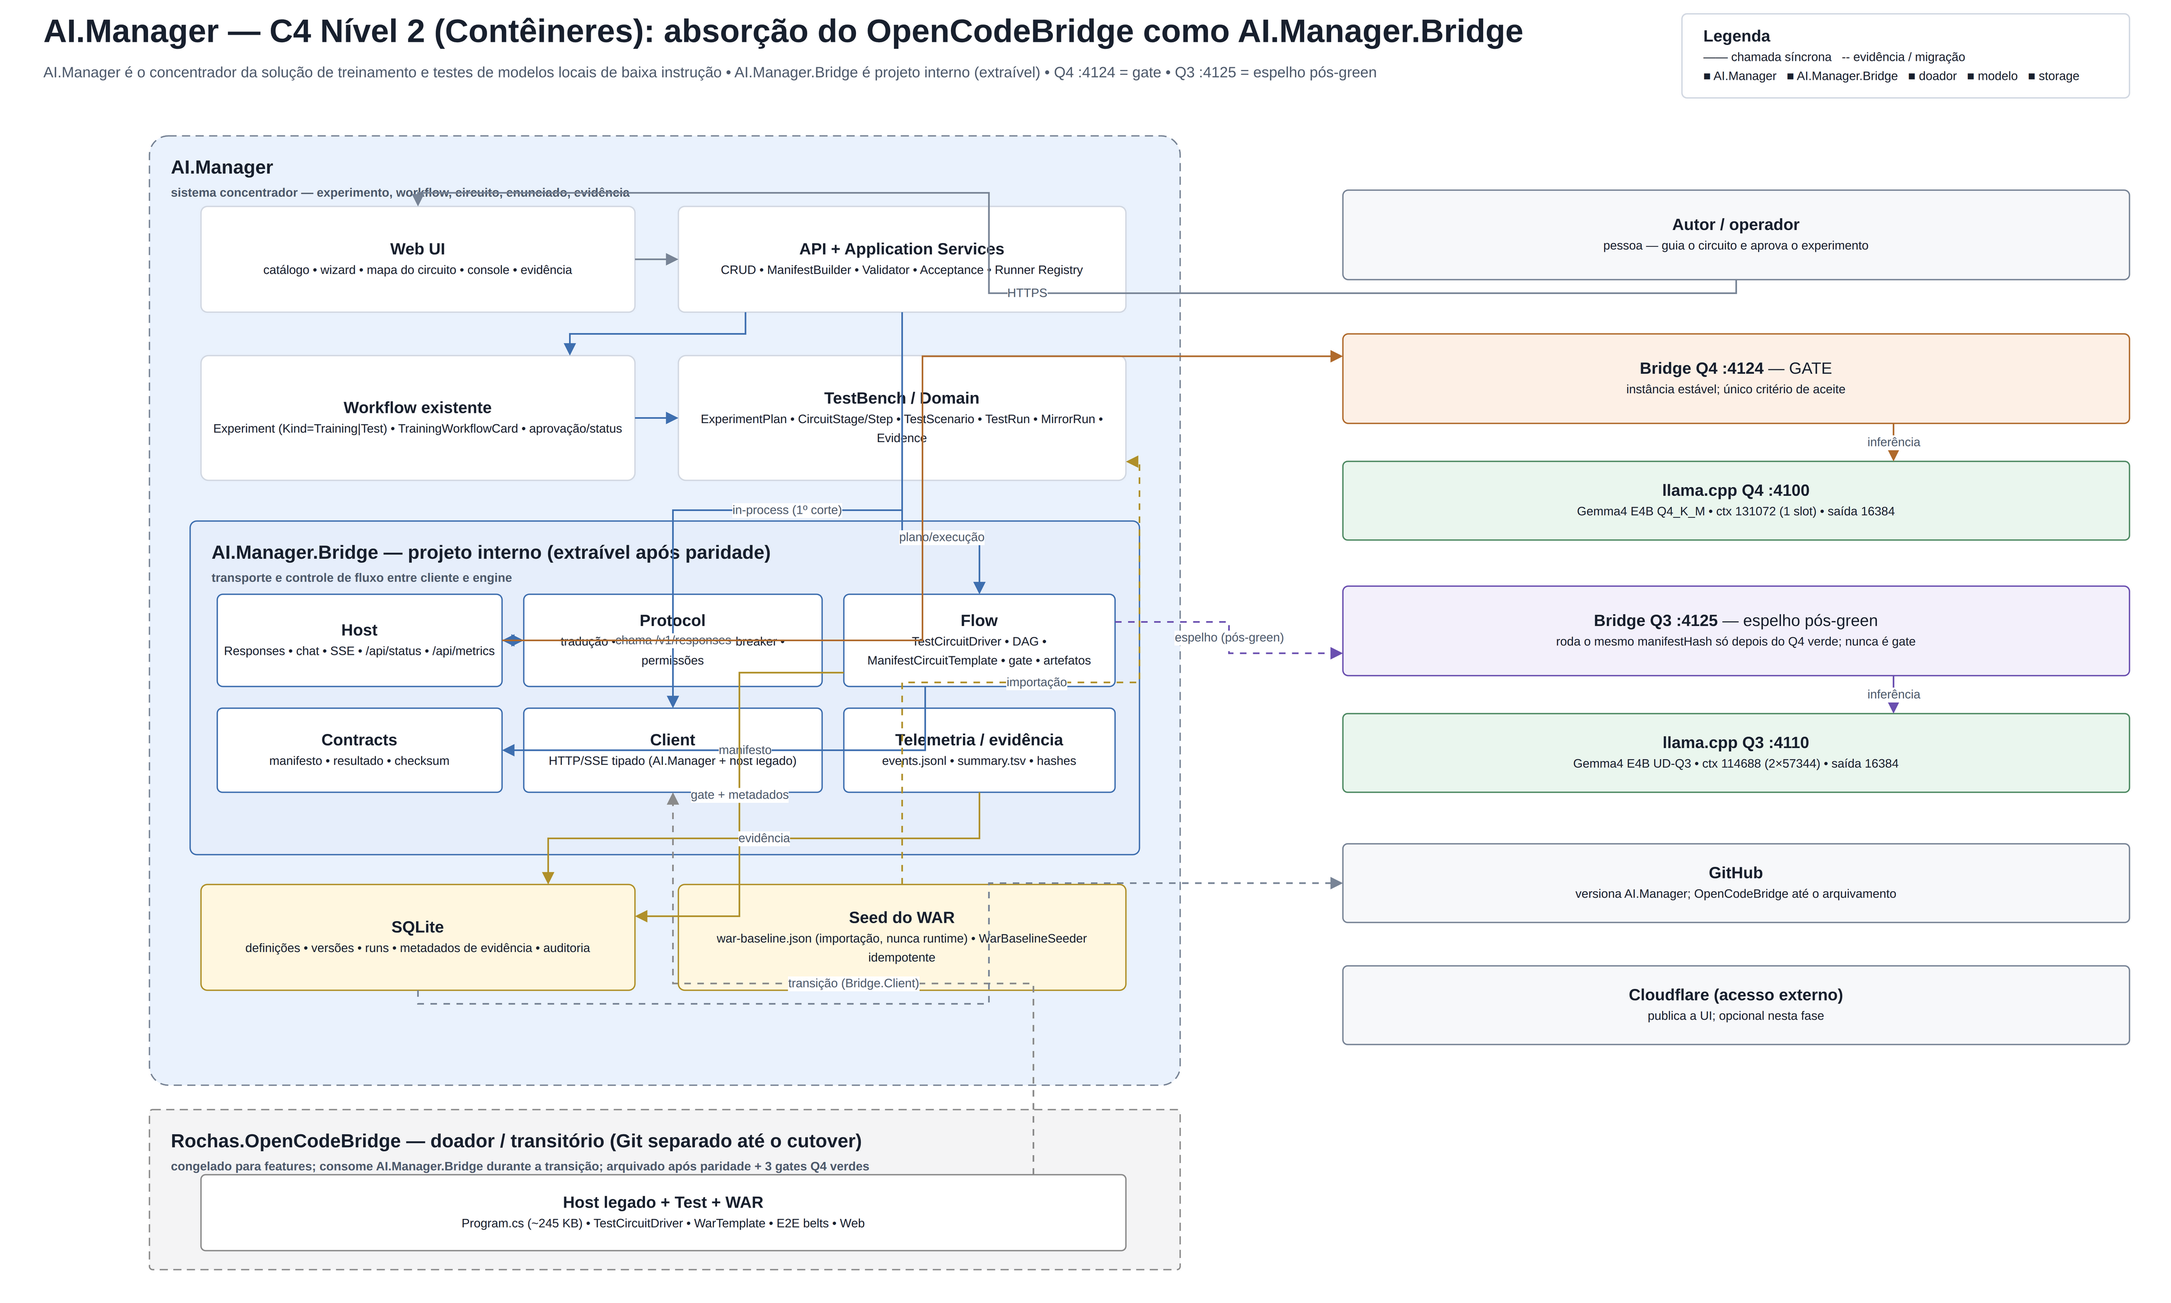
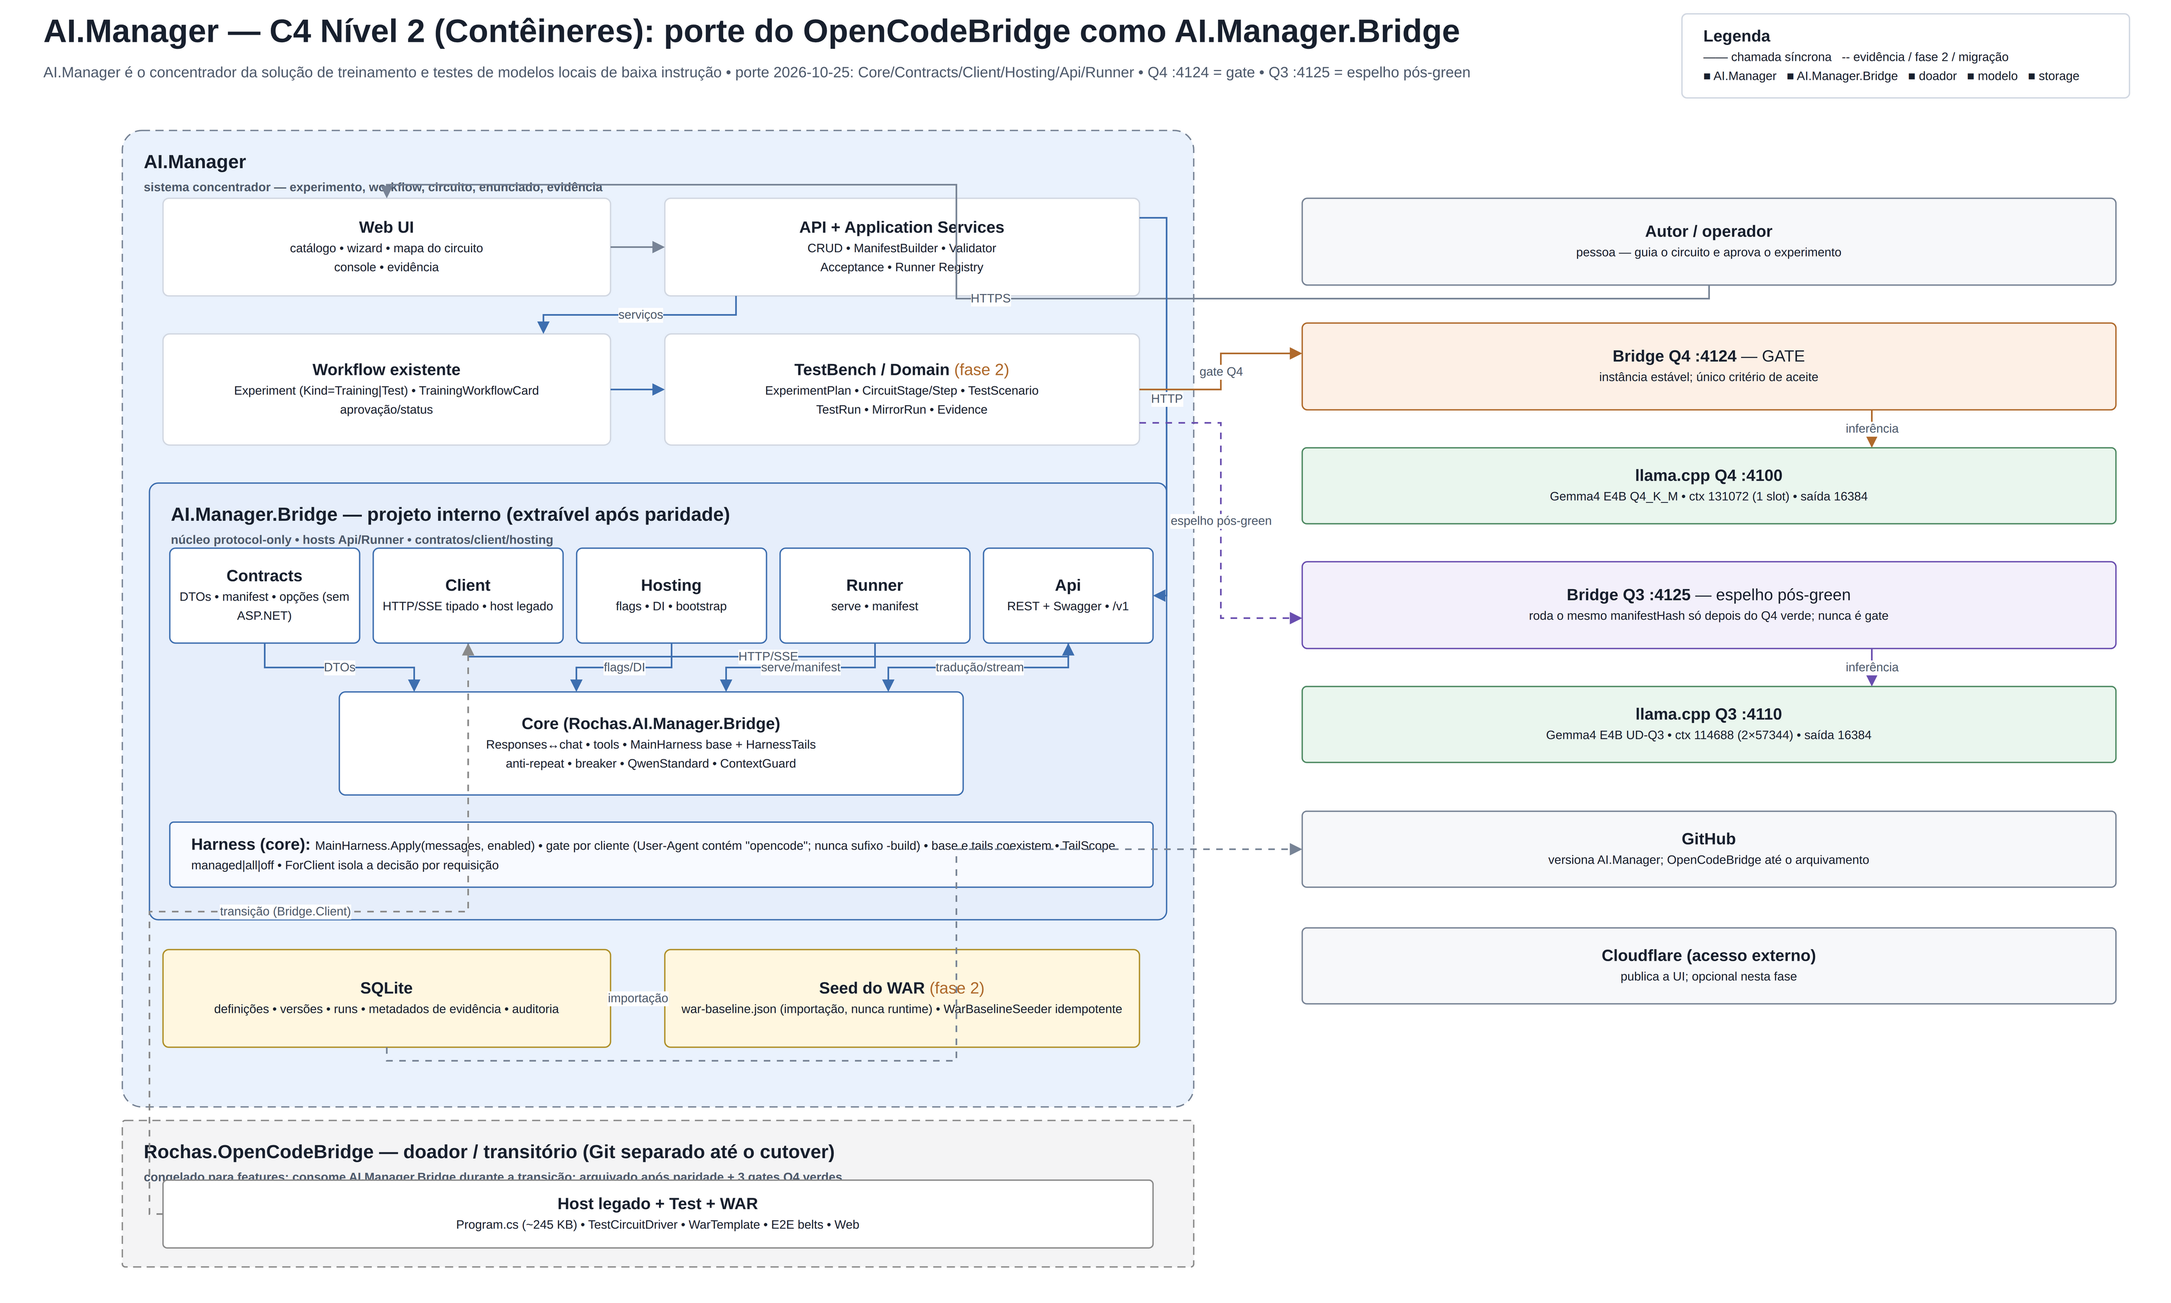
docs(c4): C4 e arquitetura v2.1 refletem o porte do AI.Manager.Bridge
- C4: seis projetos do Bridge (Core/Contracts/Client/Hosting/Api/Runner), harness base+tails, TailScope e discriminador por cliente; TestBench/Seed/WAR marcados como fase 2; Q4 gate e Q3 espelho\n- v2.1: estrutura, regra de dependencia do Bridge, secao 9.5, secao 10 reescrita (legado, Bridge, cutover, invariantes), testes, ADR-13/14, riscos, roadmap 3.5, criterios, mapa, glossario e changelog\n- PNG 4002x2402 regenerado do .drawio editavel; Bridge.Tests 102 PASS; AI.Manager.Tests 97 PASS + 1 SKIP

diff --git a/docs/ai-manager/diagrams/gen-c4.py b/docs/ai-manager/diagrams/gen-c4.py
@@ -5,7 +5,8 @@ Arquitetura representada (v2, absorcao):
   - AI.Manager e o sistema concentrador (Web/API, workflow existente,
     TestBench, SQLite/evidencia);
   - AI.Manager.Bridge e um projeto DENTRO do AI.Manager
-    (Host, Protocol, Flow/TestCircuitDriver, Contracts/Client);
+    (Core/Contracts/Client/Hosting/Api/Runner);
+  - TestBench/Flow, Seed do WAR e a integracao in-process sao fase 2;
   - Rochas.OpenCodeBridge aparece como DOADOR/TRANSITORIO, fora do sistema;
   - Q4 :4124 e o gate; Q3 :4125 e espelho pos-green; llama.cpp fica externo.
 
@@ -110,16 +111,16 @@ def edge(src: str, dst: str, label: str = "", stroke: str = "#788496",
 
 def build() -> str:
     # ---- cabecalho ----------------------------------------------------------
-    cell("title", "AI.Manager — C4 Nível 2 (Contêineres): absorção do OpenCodeBridge como AI.Manager.Bridge",
+    cell("title", "AI.Manager — C4 Nível 2 (Contêineres): porte do OpenCodeBridge como AI.Manager.Bridge",
          30, 6, 1180, 34, style=TITLE, fill="none", stroke="none")
     cell("subtitle",
          "AI.Manager é o concentrador da solução de treinamento e testes de modelos locais de baixa instrução  •  "
-         "AI.Manager.Bridge é projeto interno (extraível)  •  Q4 :4124 = gate  •  Q3 :4125 = espelho pós-green",
-         30, 42, 1180, 22, style=SUB, fill="none", stroke="none")
+         "porte 2026-10-25: Core/Contracts/Client/Hosting/Api/Runner  •  Q4 :4124 = gate  •  Q3 :4125 = espelho pós-green",
+         30, 42, 1200, 22, style=SUB, fill="none", stroke="none")
 
     cell("legend",
          "<b>Legenda</b><br><font style='font-size:9px'>"
-         "—— chamada síncrona&nbsp;&nbsp;&nbsp;-- evidência / migração<br>"
+         "—— chamada síncrona&nbsp;&nbsp;&nbsp;-- evidência / fase 2 / migração<br>"
          "■ AI.Manager&nbsp;&nbsp; ■ AI.Manager.Bridge&nbsp;&nbsp; ■ doador&nbsp;&nbsp; "
          "■ modelo&nbsp;&nbsp; ■ storage</font>",
          1240, 10, 330, 62, style=BOX_LEFT, fill="#FFFFFF", stroke="#D2D8E2")
@@ -128,82 +129,88 @@ def build() -> str:
     cell("boundary_ai",
          "<b>AI.Manager</b><br><font style='font-size:9px;color:#4E5A6C'>"
          "sistema concentrador — experimento, workflow, circuito, enunciado, evidência</font>",
-         110, 100, 760, 700, fill=C_AI, stroke=S_AI, dashed="1", boundary=True)
+         90, 96, 790, 720, fill=C_AI, stroke=S_AI, dashed="1", boundary=True)
 
-    cell("web", "<b>Web UI</b><br><font style='font-size:9px'>catálogo • wizard • mapa do circuito • console • evidência</font>",
-         148, 152, 320, 78, fill="#FFFFFF")
-    cell("api", "<b>API + Application Services</b><br><font style='font-size:9px'>CRUD • ManifestBuilder • Validator • Acceptance • Runner Registry</font>",
-         500, 152, 330, 78, fill="#FFFFFF")
-    cell("workflow", "<b>Workflow existente</b><br><font style='font-size:9px'>Experiment (Kind=Training|Test) • TrainingWorkflowCard • aprovação/status</font>",
-         148, 262, 320, 92, fill="#FFFFFF")
-    cell("testbench", "<b>TestBench / Domain</b><br><font style='font-size:9px'>ExperimentPlan • CircuitStage/Step • TestScenario • TestRun • MirrorRun • Evidence</font>",
-         500, 262, 330, 92, fill="#FFFFFF")
+    cell("web", "<b>Web UI</b><br><font style='font-size:9px'>catálogo • wizard • mapa do circuito<br>console • evidência</font>",
+         120, 146, 330, 72, fill="#FFFFFF")
+    cell("api", "<b>API + Application Services</b><br><font style='font-size:9px'>CRUD • ManifestBuilder • Validator<br>Acceptance • Runner Registry</font>",
+         490, 146, 350, 72, fill="#FFFFFF")
+    cell("workflow", "<b>Workflow existente</b><br><font style='font-size:9px'>Experiment (Kind=Training|Test) • TrainingWorkflowCard<br>aprovação/status</font>",
+         120, 246, 330, 82, fill="#FFFFFF")
+    cell("testbench", "<b>TestBench / Domain</b> <font color='#B06A2C'>(fase 2)</font><br><font style='font-size:9px'>ExperimentPlan • CircuitStage/Step • TestScenario<br>TestRun • MirrorRun • Evidence</font>",
+         490, 246, 350, 82, fill="#FFFFFF")
 
     # ---- AI.Manager.Bridge (projeto interno) --------------------------------
     cell("boundary_bridge",
          "<b>AI.Manager.Bridge</b> — projeto interno (extraível após paridade)<br>"
-         "<font style='font-size:9px;color:#4E5A6C'>transporte e controle de fluxo entre cliente e engine</font>",
-         140, 384, 700, 246, fill=C_BRIDGE, stroke=S_BRIDGE, dashed="0", boundary=True)
+         "<font style='font-size:9px;color:#4E5A6C'>núcleo protocol-only • hosts Api/Runner • contratos/client/hosting</font>",
+         110, 356, 750, 322, fill=C_BRIDGE, stroke=S_BRIDGE, dashed="0", boundary=True)
 
-    cell("br_host", "<b>Host</b><br><font style='font-size:9px'>Responses • chat • SSE • /api/status • /api/metrics</font>",
-         160, 438, 210, 68, fill="#FFFFFF", stroke=S_BRIDGE)
-    cell("br_protocol", "<b>Protocol</b><br><font style='font-size:9px'>tradução • tools • harness/tails • breaker • permissões</font>",
-         386, 438, 220, 68, fill="#FFFFFF", stroke=S_BRIDGE)
-    cell("br_flow", "<b>Flow</b><br><font style='font-size:9px'>TestCircuitDriver • DAG • ManifestCircuitTemplate • gate • artefatos</font>",
-         622, 438, 200, 68, fill="#FFFFFF", stroke=S_BRIDGE)
-    cell("br_contracts", "<b>Contracts</b><br><font style='font-size:9px'>manifesto • resultado • checksum</font>",
-         160, 522, 210, 62, fill="#FFFFFF", stroke=S_BRIDGE)
-    cell("br_client", "<b>Client</b><br><font style='font-size:9px'>HTTP/SSE tipado (AI.Manager + host legado)</font>",
-         386, 522, 220, 62, fill="#FFFFFF", stroke=S_BRIDGE)
-    cell("br_telemetry", "<b>Telemetria / evidência</b><br><font style='font-size:9px'>events.jsonl • summary.tsv • hashes</font>",
-         622, 522, 200, 62, fill="#FFFFFF", stroke=S_BRIDGE)
+    cell("br_contracts", "<b>Contracts</b><br><font style='font-size:9px'>DTOs • manifest • opções (sem ASP.NET)</font>",
+         125, 404, 140, 70, fill="#FFFFFF", stroke=S_BRIDGE)
+    cell("br_client", "<b>Client</b><br><font style='font-size:9px'>HTTP/SSE tipado • host legado</font>",
+         275, 404, 140, 70, fill="#FFFFFF", stroke=S_BRIDGE)
+    cell("br_hosting", "<b>Hosting</b><br><font style='font-size:9px'>flags • DI • bootstrap</font>",
+         425, 404, 140, 70, fill="#FFFFFF", stroke=S_BRIDGE)
+    cell("br_runner", "<b>Runner</b><br><font style='font-size:9px'>serve • manifest</font>",
+         575, 404, 140, 70, fill="#FFFFFF", stroke=S_BRIDGE)
+    cell("br_api", "<b>Api</b><br><font style='font-size:9px'>REST + Swagger • /v1</font>",
+         725, 404, 125, 70, fill="#FFFFFF", stroke=S_BRIDGE)
+
+    cell("br_core", "<b>Core (Rochas.AI.Manager.Bridge)</b><br><font style='font-size:9px'>Responses↔chat • tools • MainHarness base + HarnessTails<br>anti-repeat • breaker • QwenStandard • ContextGuard</font>",
+         250, 510, 460, 76, fill="#FFFFFF", stroke=S_BRIDGE)
+
+    cell("br_note",
+         "<b>Harness (core):</b> <font style='font-size:9px'>"
+         "MainHarness.Apply(messages, enabled) • gate por cliente (User-Agent contém \"opencode\"; nunca sufixo -build) • "
+         "base e tails coexistem • TailScope managed|all|off • ForClient isola a decisão por requisição</font>",
+         125, 606, 725, 48, style=BOX_LEFT, fill="#F8FAFF", stroke=S_BRIDGE)
 
     cell("store", "<b>SQLite</b><br><font style='font-size:9px'>definições • versões • runs • metadados de evidência • auditoria</font>",
-         148, 652, 320, 78, fill=C_STORE, stroke=S_STORE)
-    cell("seed", "<b>Seed do WAR</b><br><font style='font-size:9px'>war-baseline.json (importação, nunca runtime) • WarBaselineSeeder idempotente</font>",
-         500, 652, 330, 78, fill=C_STORE, stroke=S_STORE)
+         120, 700, 330, 72, fill=C_STORE, stroke=S_STORE)
+    cell("seed", "<b>Seed do WAR</b> <font color='#B06A2C'>(fase 2)</font><br><font style='font-size:9px'>war-baseline.json (importação, nunca runtime) • WarBaselineSeeder idempotente</font>",
+         490, 700, 350, 72, fill=C_STORE, stroke=S_STORE)
 
     # ---- doador -------------------------------------------------------------
     cell("boundary_donor",
          "<b>Rochas.OpenCodeBridge</b> — doador / transitório (Git separado até o cutover)<br>"
          "<font style='font-size:9px;color:#4E5A6C'>congelado para features; consome AI.Manager.Bridge durante a transição; arquivado após paridade + 3 gates Q4 verdes</font>",
-         110, 818, 760, 118, fill=C_DONOR, stroke=S_DONOR, dashed="1", boundary=True)
+         90, 826, 790, 108, fill=C_DONOR, stroke=S_DONOR, dashed="1", boundary=True)
     cell("donor", "<b>Host legado + Test + WAR</b><br><font style='font-size:9px'>Program.cs (~245 KB) • TestCircuitDriver • WarTemplate • E2E belts • Web</font>",
-         148, 866, 682, 56, fill="#FFFFFF", stroke=S_DONOR)
+         120, 870, 730, 50, fill="#FFFFFF", stroke=S_DONOR)
 
     # ---- fora do AI.Manager -------------------------------------------------
     cell("user", "<b>Autor / operador</b><br><font style='font-size:9px'>pessoa — guia o circuito e aprova o experimento</font>",
-         990, 140, 580, 66, fill=C_EXT, stroke=S_EXT)
+         960, 146, 600, 64, fill=C_EXT, stroke=S_EXT)
     cell("bridge_q4", "<b>Bridge Q4 :4124</b> — GATE<br><font style='font-size:9px'>instância estável; único critério de aceite</font>",
-         990, 246, 580, 66, fill=C_GATE, stroke=S_GATE)
+         960, 238, 600, 64, fill=C_GATE, stroke=S_GATE)
     cell("llama_q4", "<b>llama.cpp Q4 :4100</b><br><font style='font-size:9px'>Gemma4 E4B Q4_K_M • ctx 131072 (1 slot) • saída 16384</font>",
-         990, 340, 580, 58, fill=C_MODEL, stroke=S_MODEL)
+         960, 330, 600, 56, fill=C_MODEL, stroke=S_MODEL)
     cell("bridge_q3", "<b>Bridge Q3 :4125</b> — espelho pós-green<br><font style='font-size:9px'>roda o mesmo manifestHash só depois do Q4 verde; nunca é gate</font>",
-         990, 432, 580, 66, fill=C_MIRROR, stroke=S_MIRROR)
+         960, 414, 600, 64, fill=C_MIRROR, stroke=S_MIRROR)
     cell("llama_q3", "<b>llama.cpp Q3 :4110</b><br><font style='font-size:9px'>Gemma4 E4B UD-Q3 • ctx 114688 (2×57344) • saída 16384</font>",
-         990, 526, 580, 58, fill=C_MODEL, stroke=S_MODEL)
+         960, 506, 600, 56, fill=C_MODEL, stroke=S_MODEL)
     cell("github", "<b>GitHub</b><br><font style='font-size:9px'>versiona AI.Manager; OpenCodeBridge até o arquivamento</font>",
-         990, 622, 580, 58, fill=C_EXT, stroke=S_EXT)
+         960, 598, 600, 56, fill=C_EXT, stroke=S_EXT)
     cell("cloudflare", "<b>Cloudflare (acesso externo)</b><br><font style='font-size:9px'>publica a UI; opcional nesta fase</font>",
-         990, 712, 580, 58, fill=C_EXT, stroke=S_EXT)
+         960, 684, 600, 56, fill=C_EXT, stroke=S_EXT)
 
     # ---- relacionamentos ----------------------------------------------------
     edge("user", "web", "HTTPS", exit=("0.5", "1"), entry=("0.5", "0"))
     edge("web", "api", "", exit=("1", "0.5"), entry=("0", "0.5"))
-    edge("api", "workflow", "", stroke=S_BRIDGE, exit=("0.15", "1"), entry=("0.85", "0"))
+    edge("api", "workflow", "serviços", stroke=S_BRIDGE, exit=("0.15", "1"), entry=("0.85", "0"))
     edge("workflow", "testbench", "", stroke=S_BRIDGE, exit=("1", "0.5"), entry=("0", "0.5"))
-    edge("api", "br_client", "in-process (1º corte)", stroke=S_BRIDGE, exit=("0.5", "1"), entry=("0.5", "0"))
-    edge("testbench", "br_flow", "plano/execução", stroke=S_BRIDGE, exit=("0.5", "1"), entry=("0.5", "0"))
-    edge("br_flow", "br_host", "chama /v1/responses", stroke=S_BRIDGE, exit=("0", "0.5"), entry=("1", "0.5"))
-    edge("br_host", "br_protocol", "", stroke=S_BRIDGE, exit=("1", "0.5"), entry=("0", "0.5"))
-    edge("br_flow", "br_contracts", "manifesto", stroke=S_BRIDGE, exit=("0.3", "1"), entry=("1", "0.5"))
-    edge("br_flow", "store", "gate + metadados", stroke=S_STORE, exit=("0", "0.85"), entry=("1", "0.3"))
-    edge("br_telemetry", "store", "evidência", stroke=S_STORE, exit=("0.5", "1"), entry=("0.8", "0"))
-    edge("seed", "testbench", "importação", stroke=S_STORE, dashed="1", exit=("0.5", "0"), entry=("1", "0.85"))
-    edge("donor", "br_client", "transição (Bridge.Client)", stroke=S_DONOR, dashed="1", exit=("0.9", "0"), entry=("0.5", "1"))
-    edge("br_host", "bridge_q4", "", stroke=S_GATE, exit=("1", "0.5"), entry=("0", "0.25"))
+    edge("api", "br_api", "HTTP", stroke=S_BRIDGE, exit=("1", "0.2"), entry=("1", "0.5"))
+    edge("br_client", "br_api", "HTTP/SSE", stroke=S_BRIDGE, exit=("0.5", "1"), entry=("0.5", "1"))
+    edge("br_contracts", "br_core", "DTOs", stroke=S_BRIDGE, exit=("0.5", "1"), entry=("0.12", "0"))
+    edge("br_hosting", "br_core", "flags/DI", stroke=S_BRIDGE, exit=("0.5", "1"), entry=("0.38", "0"))
+    edge("br_runner", "br_core", "serve/manifest", stroke=S_BRIDGE, exit=("0.5", "1"), entry=("0.62", "0"))
+    edge("br_api", "br_core", "tradução/stream", stroke=S_BRIDGE, exit=("0.5", "1"), entry=("0.88", "0"))
+    edge("seed", "store", "importação", stroke=S_STORE, dashed="1", exit=("0", "0.5"), entry=("1", "0.5"))
+    edge("donor", "br_client", "transição (Bridge.Client)", stroke=S_DONOR, dashed="1", exit=("0", "0.5"), entry=("0.5", "1"))
+    edge("testbench", "bridge_q4", "gate Q4", stroke=S_GATE, exit=("1", "0.5"), entry=("0", "0.35"))
+    edge("testbench", "bridge_q3", "espelho pós-green", stroke=S_MIRROR, dashed="1", exit=("1", "0.8"), entry=("0", "0.65"))
     edge("bridge_q4", "llama_q4", "inferência", stroke=S_GATE, exit=("0.7", "1"), entry=("0.7", "0"))
-    edge("br_flow", "bridge_q3", "espelho (pós-green)", stroke=S_MIRROR, dashed="1", exit=("1", "0.3"), entry=("0", "0.75"))
     edge("bridge_q3", "llama_q3", "inferência", stroke=S_MIRROR, exit=("0.7", "1"), entry=("0.7", "0"))
     edge("store", "github", "", stroke=S_EXT, dashed="1", exit=("0.5", "1"), entry=("0.1", "0.5"))
 

diff --git a/HISTORY.md b/HISTORY.md
@@ -1,3 +1,22 @@
+## docs(c4): C4 e arquitetura v2.1 refletem o porte do AI.Manager.Bridge
+
+- Date: 2026-10-25
+
+- C4 (Nível 2, contêineres) regenerado a partir de `gen-c4.py`: o boundary
+  `AI.Manager.Bridge` agora mostra os seis projetos reais (`Core`, `Contracts`,
+  `Client`, `Hosting`, `Api`, `Runner`), o pipeline protocol-only, `MainHarness`
+  base + `HarnessTails`, `TailScope` e o discriminador por cliente (User-Agent).
+  `TestBench` e `Seed do WAR` ficam marcados como fase 2; Q4 segue gate e Q3
+  espelho pós-green. Saídas: `.drawio` editável e PNG 4002x2402 (escala 2.5).
+- `Rochas.AI.Manager-Arquitetura v2.md` sobe para v2.1: sumário, estrutura de
+  projetos, regra de dependência do Bridge, seção 9.5 (harness base+tails),
+  seção 10 reescrita (legado transitório, Bridge, cutover e invariantes),
+  testes, ADR-13/ADR-14, riscos, roadmap (Fase 3.5), critérios, mapa, glossário
+  e change log. `ARQUITETURA-CAMADAS.md` ganhou a camada Bridge e hosts.
+- **Prova**: `python3 docs/ai-manager/diagrams/gen-c4.py` + `drawio -x -f png
+  --size page -s 2.5`; XML válido; build/testes verdes no commit `c72f726`
+  (`Bridge.Tests` 102 PASS; `AI.Manager.Tests` 97 PASS + 1 SKIP).
+
 ## sync(harness): base enxuta do OCB, tails coexistentes e discriminador por cliente
 
 - Date: 2026-10-25

diff --git a/docs/ai-manager/ARQUITETURA-CAMADAS.md b/docs/ai-manager/ARQUITETURA-CAMADAS.md
@@ -11,10 +11,17 @@ Isso centraliza contratos e especificações no domínio, evitando dependências
 - **Web**: MVC (views, partials, modals, sidebar).
 - **Api**: Web API + Swagger.
 - **TrainingEngine**: motor de treinamento (orquestração/monitoramento).
+- **Bridge (Core/Contracts/Client/Hosting)**: protocolo Responses↔chat, harness base+tails, anti-repeat e breaker; núcleo sem ASP.NET/CLI/Swagger.
+- **Bridge hosts (Api/Runner)**: cascas REST+Swagger e CLI `serve`/`manifest`; não contêm regra de negócio.
 
 ## Compartilhamento
 Web e Api compartilham Domain + Application + Infrastructure + TrainingEngine.
 Nenhuma regra de negócio duplicada; apenas apresentação distinta.
+
+O `AI.Manager.Bridge` é um pacote à parte: o core referencia apenas `Bridge.Contracts`
+e não conhece `Domain`/`Application`; `Api`/`Runner` referenciam o core e o hosting.
+O proxy legado do AI.Manager permanece até o cutover; o C4 em
+`docs/ai-manager/diagrams/ai-manager-next-steps-c4.{drawio,png}` mostra o estado do porte.
 
 ## Documentos de arquitetura e pendências
 - `Rochas.AI.Manager-Arquitetura v1.md` — guideline v1.2 + seção 32 (as-built).
